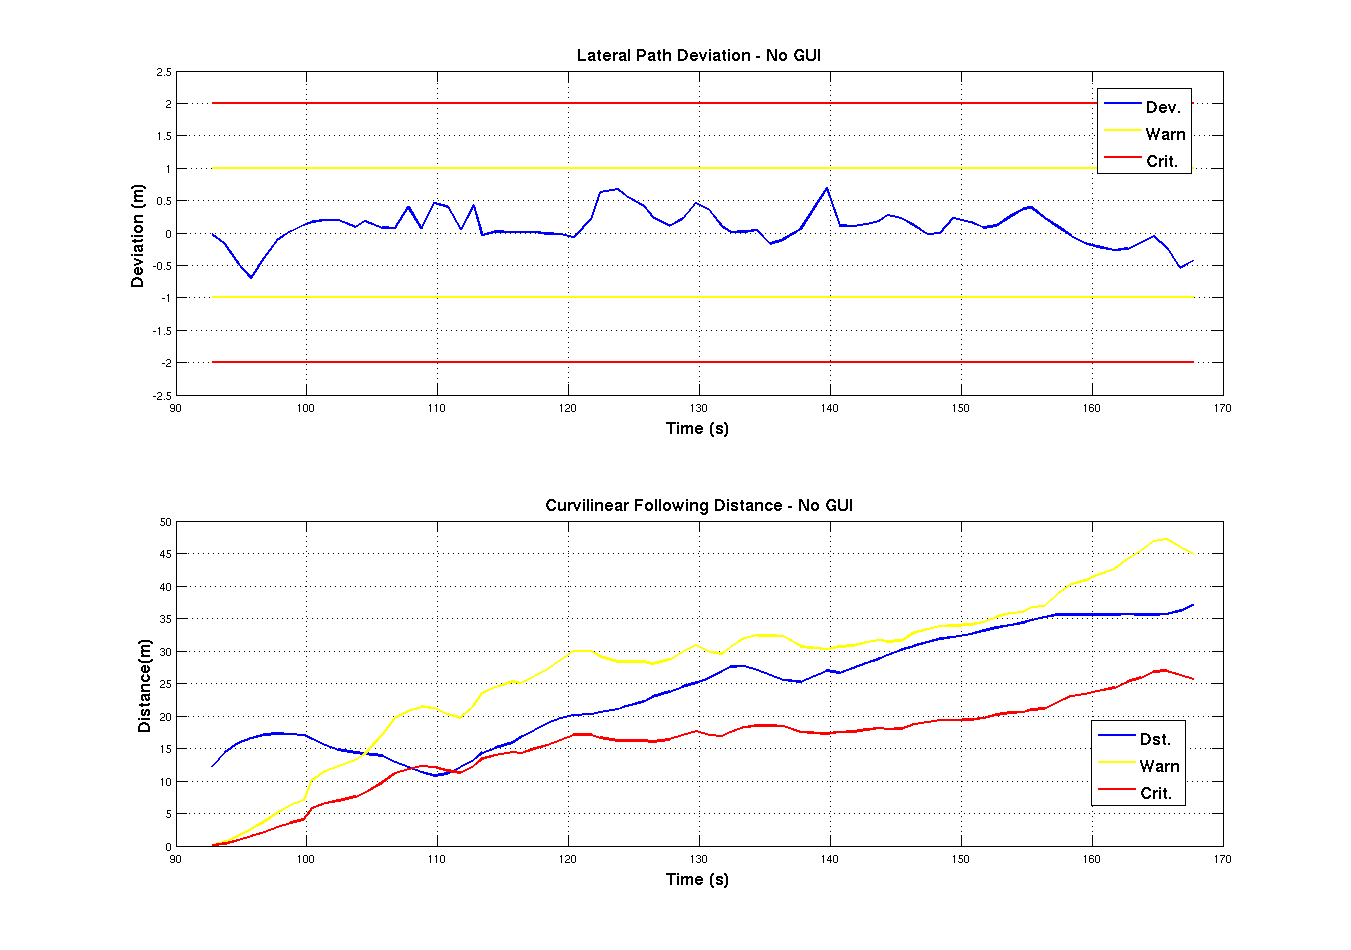
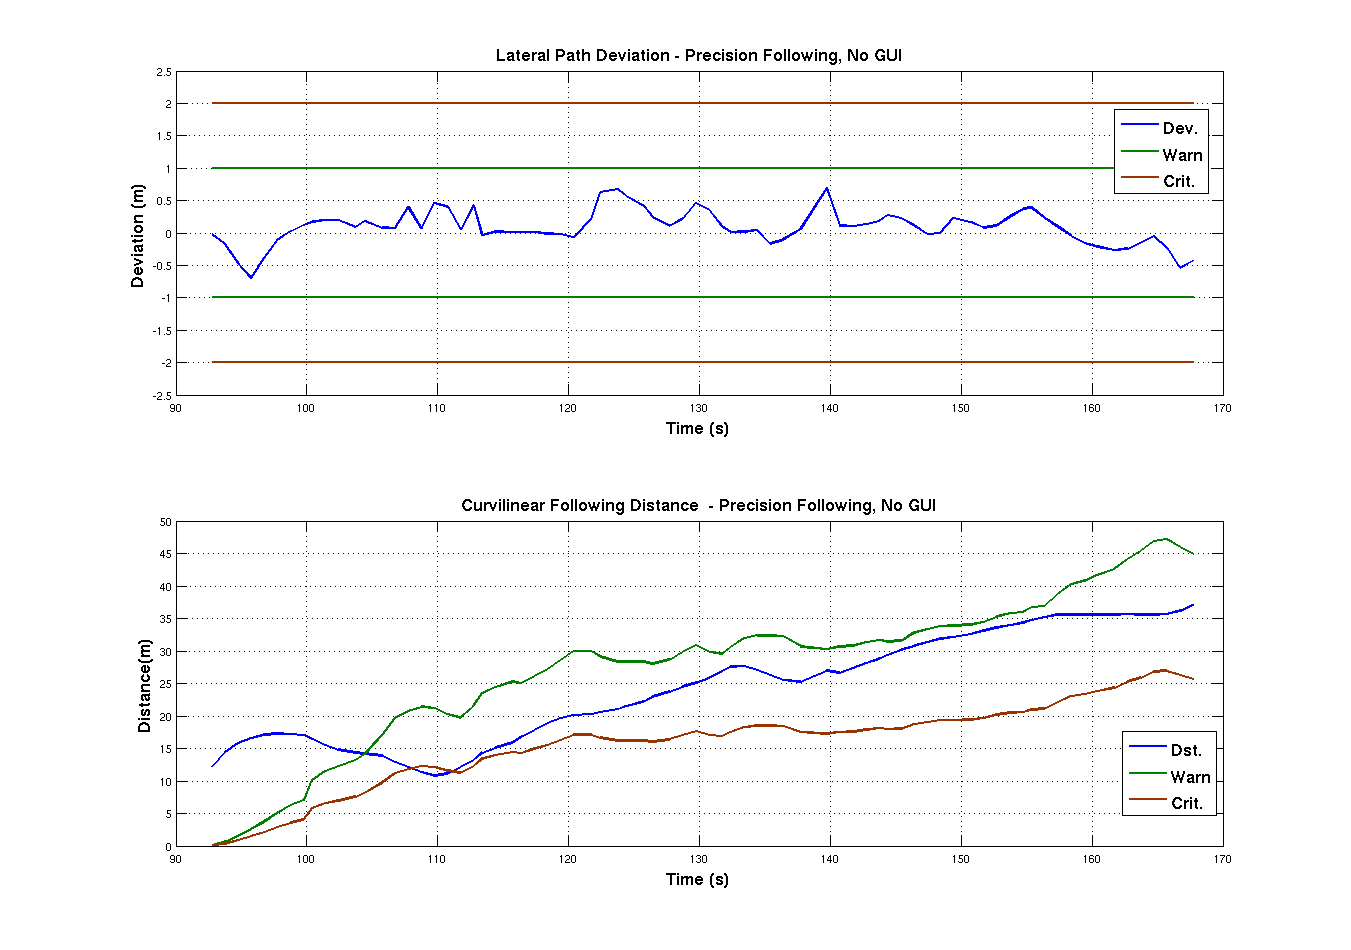
fixed yellows

diff --git a/chap_exper.tex b/chap_exper.tex
@@ -82,8 +82,12 @@ This test primarily focused on distinguishing which GUI best provided aid in pat
 \subsection{Zero Landmark Test} \label{sec:zerolandmarktest}
 The precision following test took place in an environment abundant in visual landmarks by which to localize, such as lane markings and road signs. Given the motivation for these tools, it is necessary to examine the performance of both GUIs in a situation where this type of assistance is denied. The zero landmark test was therefore constructed to determine the impact of removing visual awareness of surrounds as well as waypoints along the leaders path to assist in replicating it.
 
-Both vehicles began parked in a large, open expanse of flat asphalt (`skidpad') with excellent GPS coverage. There are no clearly visible artifacts upon the ground, though some objects are visible at the outer edges of the skidpad. To further obscure visual following, the test was conducted at night. The lead vehicle drove in chaotic patterns intended present a path with is difficult to follow while the following vehicle attempted to adhere to the path as well as possible and maintain the closest possible curvilinear separation distance without triggering any alert messages. Sec. \ref{sec:zerolandmarkresults} outlines the results of the zero landmark test.
+Both vehicles began parked in a large, open expanse of flat asphalt (`skidpad') with excellent GPS coverage. There are no clearly visible artifacts upon the ground, though some objects are visible at the outer edges of the skidpad. To further obscure visual following, the test was conducted at night. The lead vehicle drove in chaotic patterns intended present a path with is difficult to follow while the following vehicle attempted to adhere to the path as well as possible and maintain the closest possible curvilinear separation distance without triggering any alert messages. Sec. \ref{sec:zerolandmarkresults} outlines the results of the zero landmark test, and the path taken by the leader in one of the runs is shown in Fig.~\ref{fig:zerolandmarkpath}
 
+\begin{figure}[ht] \centering
+    \includegraphics[width=5in]{./figs/zero_landmark_path.png}
+    \caption{Path taken by lead vehicle during a single run of the zero landmark test} \label{fig:zerolandmarkpath}
+\end{figure}
 
 
 
@@ -113,7 +117,7 @@ Table \ref{tab:lanechangeresults} shows the results of all runs of the lane chan
     4       &       5   &    5 \\ \hline   
 \end{tabular} \label{tab:lanechangeresults} \end{table}
 
-Figures~\ref{fig:lanechange_earth} and~\ref{fig:lanechange_mono} show what the driver saw onscreen during 
+Figures~\ref{fig:lanechange_earth} and~\ref{fig:lanechange_mono} show what the driver saw onscreen prior to attempting to make the correct lane change using the Earth GUI and the monolithic GUI, respectivley.
 
 \begin{figure}[ht] \centering
     \begin{minipage}[b]{0.45\linewidth} \centering 
@@ -136,6 +140,7 @@ Figures~\ref{fig:lanechange_earth} and~\ref{fig:lanechange_mono} show what the d
 
 % Explain the run-specific charts
 Shown in Figs. \ref{fig:precisionresults_earth} , \ref{fig:precisionresults_monolith} , and \ref{fig:precisionresults_control} are the best of all runs of the precision following test using the Earth-based GUI, monolithic GUI, and no GUI at all, respectivley. The criterion for selecting the `best' run was that which had the lowest combined percentage of timesteps when an alert was issued for either distance or deviation. Figure \ref{fig:precision_alerts} outlines how often alerts occurred during each data run.
+
 
 
 

diff --git a/chap_gui.tex b/chap_gui.tex
@@ -75,7 +75,7 @@ Both GUIs were initially developed using postprocessed data collected from an Pr
 Sec. \ref{sec:test} describes how selectivity was exercised during data collection to minimize memory usage while maximizing the usefulness of the data that was collected when it was replayed.
 
 %%%% Qt Signals/Slots - alright.
-Both GUIs were constructed using the Qt \cite{qt} framework to varying degrees; the interface backend of the monolithic GUI relied entirely upon a Qt window and components, and the command interface of the Earth-based GUI (see Sec. \ref{sec:finaldes_earth}) was constructed similarly. Many items in each window may be changed by the user or update based on incoming data, and must subsequenty interact with other items in the window. For instance, when the user changes a $\mu$ value using the tab in Fig.~\ref{sec:finaldes_monolith}, the corresponding variable being accessed by the function which calculates stopping distance thresholds must then be changed. Qt has an internal message passing scheme similar to a publisher/subscriber model, using instead what are called signals and slots. Continuing the example above, when that $\mu$ value is changed the `spinbox' by which the user changed it then emits a signal which is broadcast out. It is then received by all connected slots. These signal/slot connections are made at runtime, when the object instances to which they belong are created.
+Both GUIs were constructed using the Qt \cite{qt} framework to varying degrees. The interface backend of the monolithic GUI relied entirely upon a Qt window and components, and the command interface of the Earth-based GUI (see Sec. \ref{sec:finaldes_earth}) was constructed similarly. Many items in each window may be changed by the user or update based on incoming data, and must subsequenty interact with other items in the window. For instance, when the user changes a $\mu$ value using the tab in Fig.~\ref{sec:finaldes_monolith}, the corresponding variable being accessed by the function which calculates stopping distance thresholds must then be changed. Qt has an internal message passing scheme similar to a publisher/subscriber model, using instead what are called signals and slots. Continuing the example above, when that $\mu$ value is changed the `spinbox' by which the user changed it then emits a signal which is broadcast out. It is then received by all connected slots. These signal/slot connections are made at runtime, when the object instances to which they belong are created.
 
 %%% midw interface
 % Bridging these two ecosystems is necessary, and 
